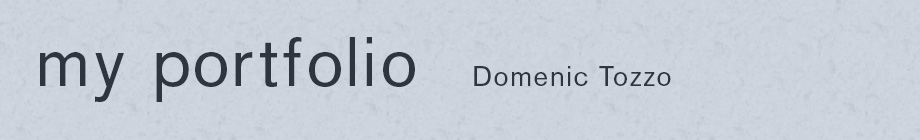
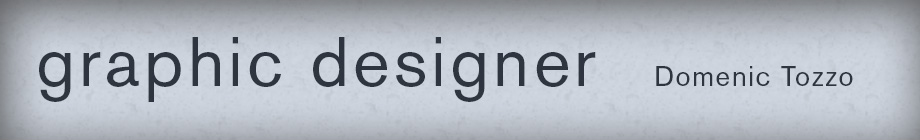
changed the masthead and wording of my self description

diff --git a/index.html b/index.html
@@ -16,8 +16,8 @@
 		</ul>
 	</div>
 	<div class="main">
-		<h1>Welcome to my book & portfolio</h1>
-		<p>Senior production designer with serious layout, design and Photoshop skills. With excellent typography skills and thorough understanding of pre-press, printing and binding; I am able to spin dry word documents into a beautifully layed out annual reports, financial reports, magazines, brochures, editorial and advertising art with speed and accuracy.</p>
+		<h1>Welcome to my portfolio</h1>
+		<p>I am a senior production designer with serious layout, design and Photoshop skills. With excellent typography skills and thorough understanding of pre-press, printing and binding; I am able to spin dry word documents into a beautifully layed out annual reports, financial reports, magazines, brochures, editorial and advertising art with speed and accuracy.</p>
 		<p>I strive for perfection with every project ensuring that all aspects of the creation and production process are accounted for and considered at every touch point.</p>
 	</div>
 
